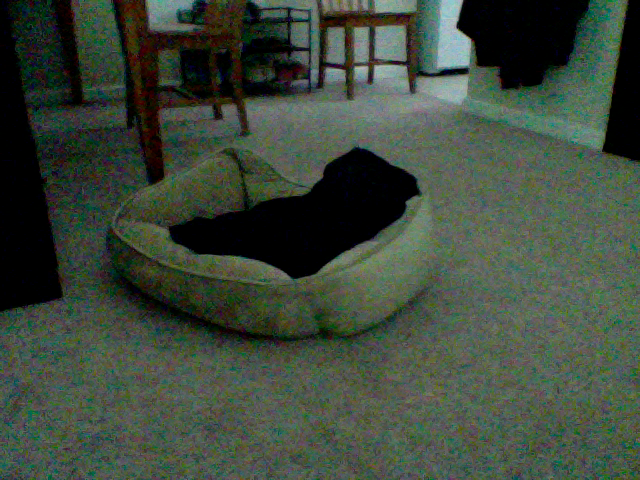
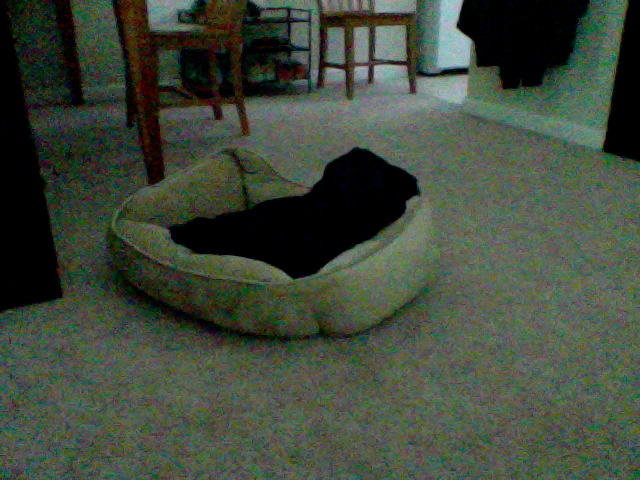
update at Month05Day09Time11:06

diff --git a/index.html b/index.html
@@ -39,8 +39,8 @@
       <!-- Example row of columns -->
       <div class="row">
         <div class="col-md-4">
-	<p>This picture was updated at Month05Day09Time11:05</p>
-		<img src="10_pic.png" />
+	<p>This picture was updated at Month05Day09Time11:06</p>
+		<img src="1_pic.png" />
         </div>
       </div>
 
